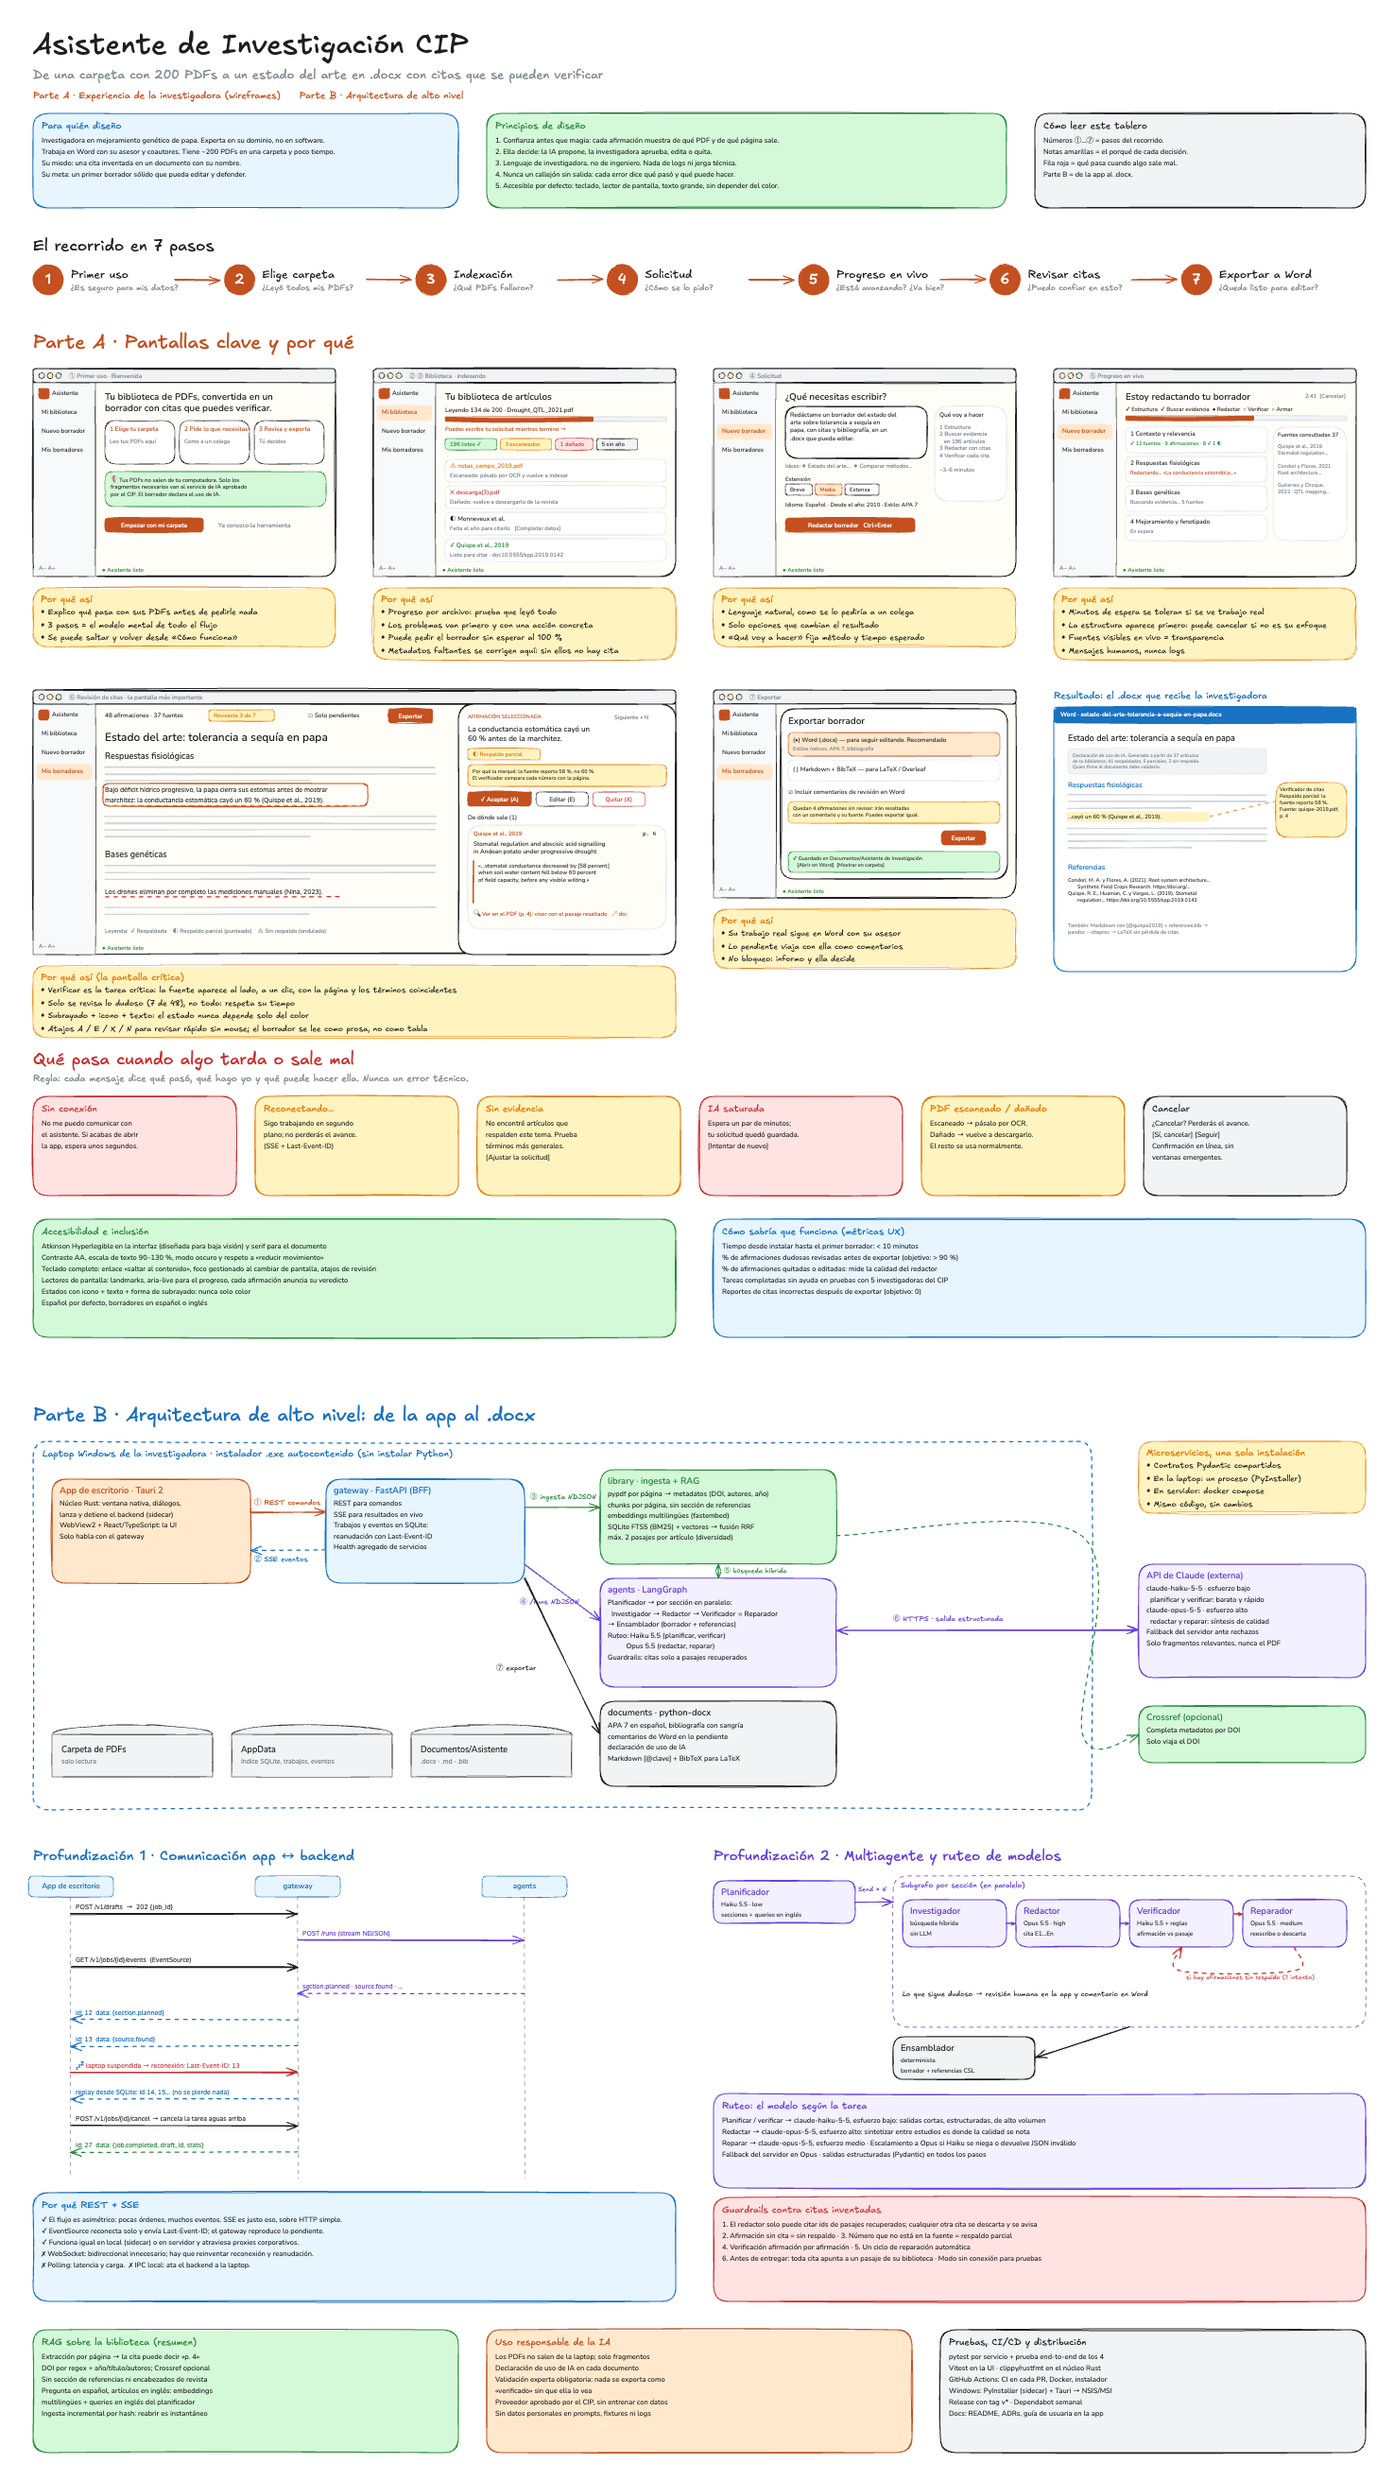
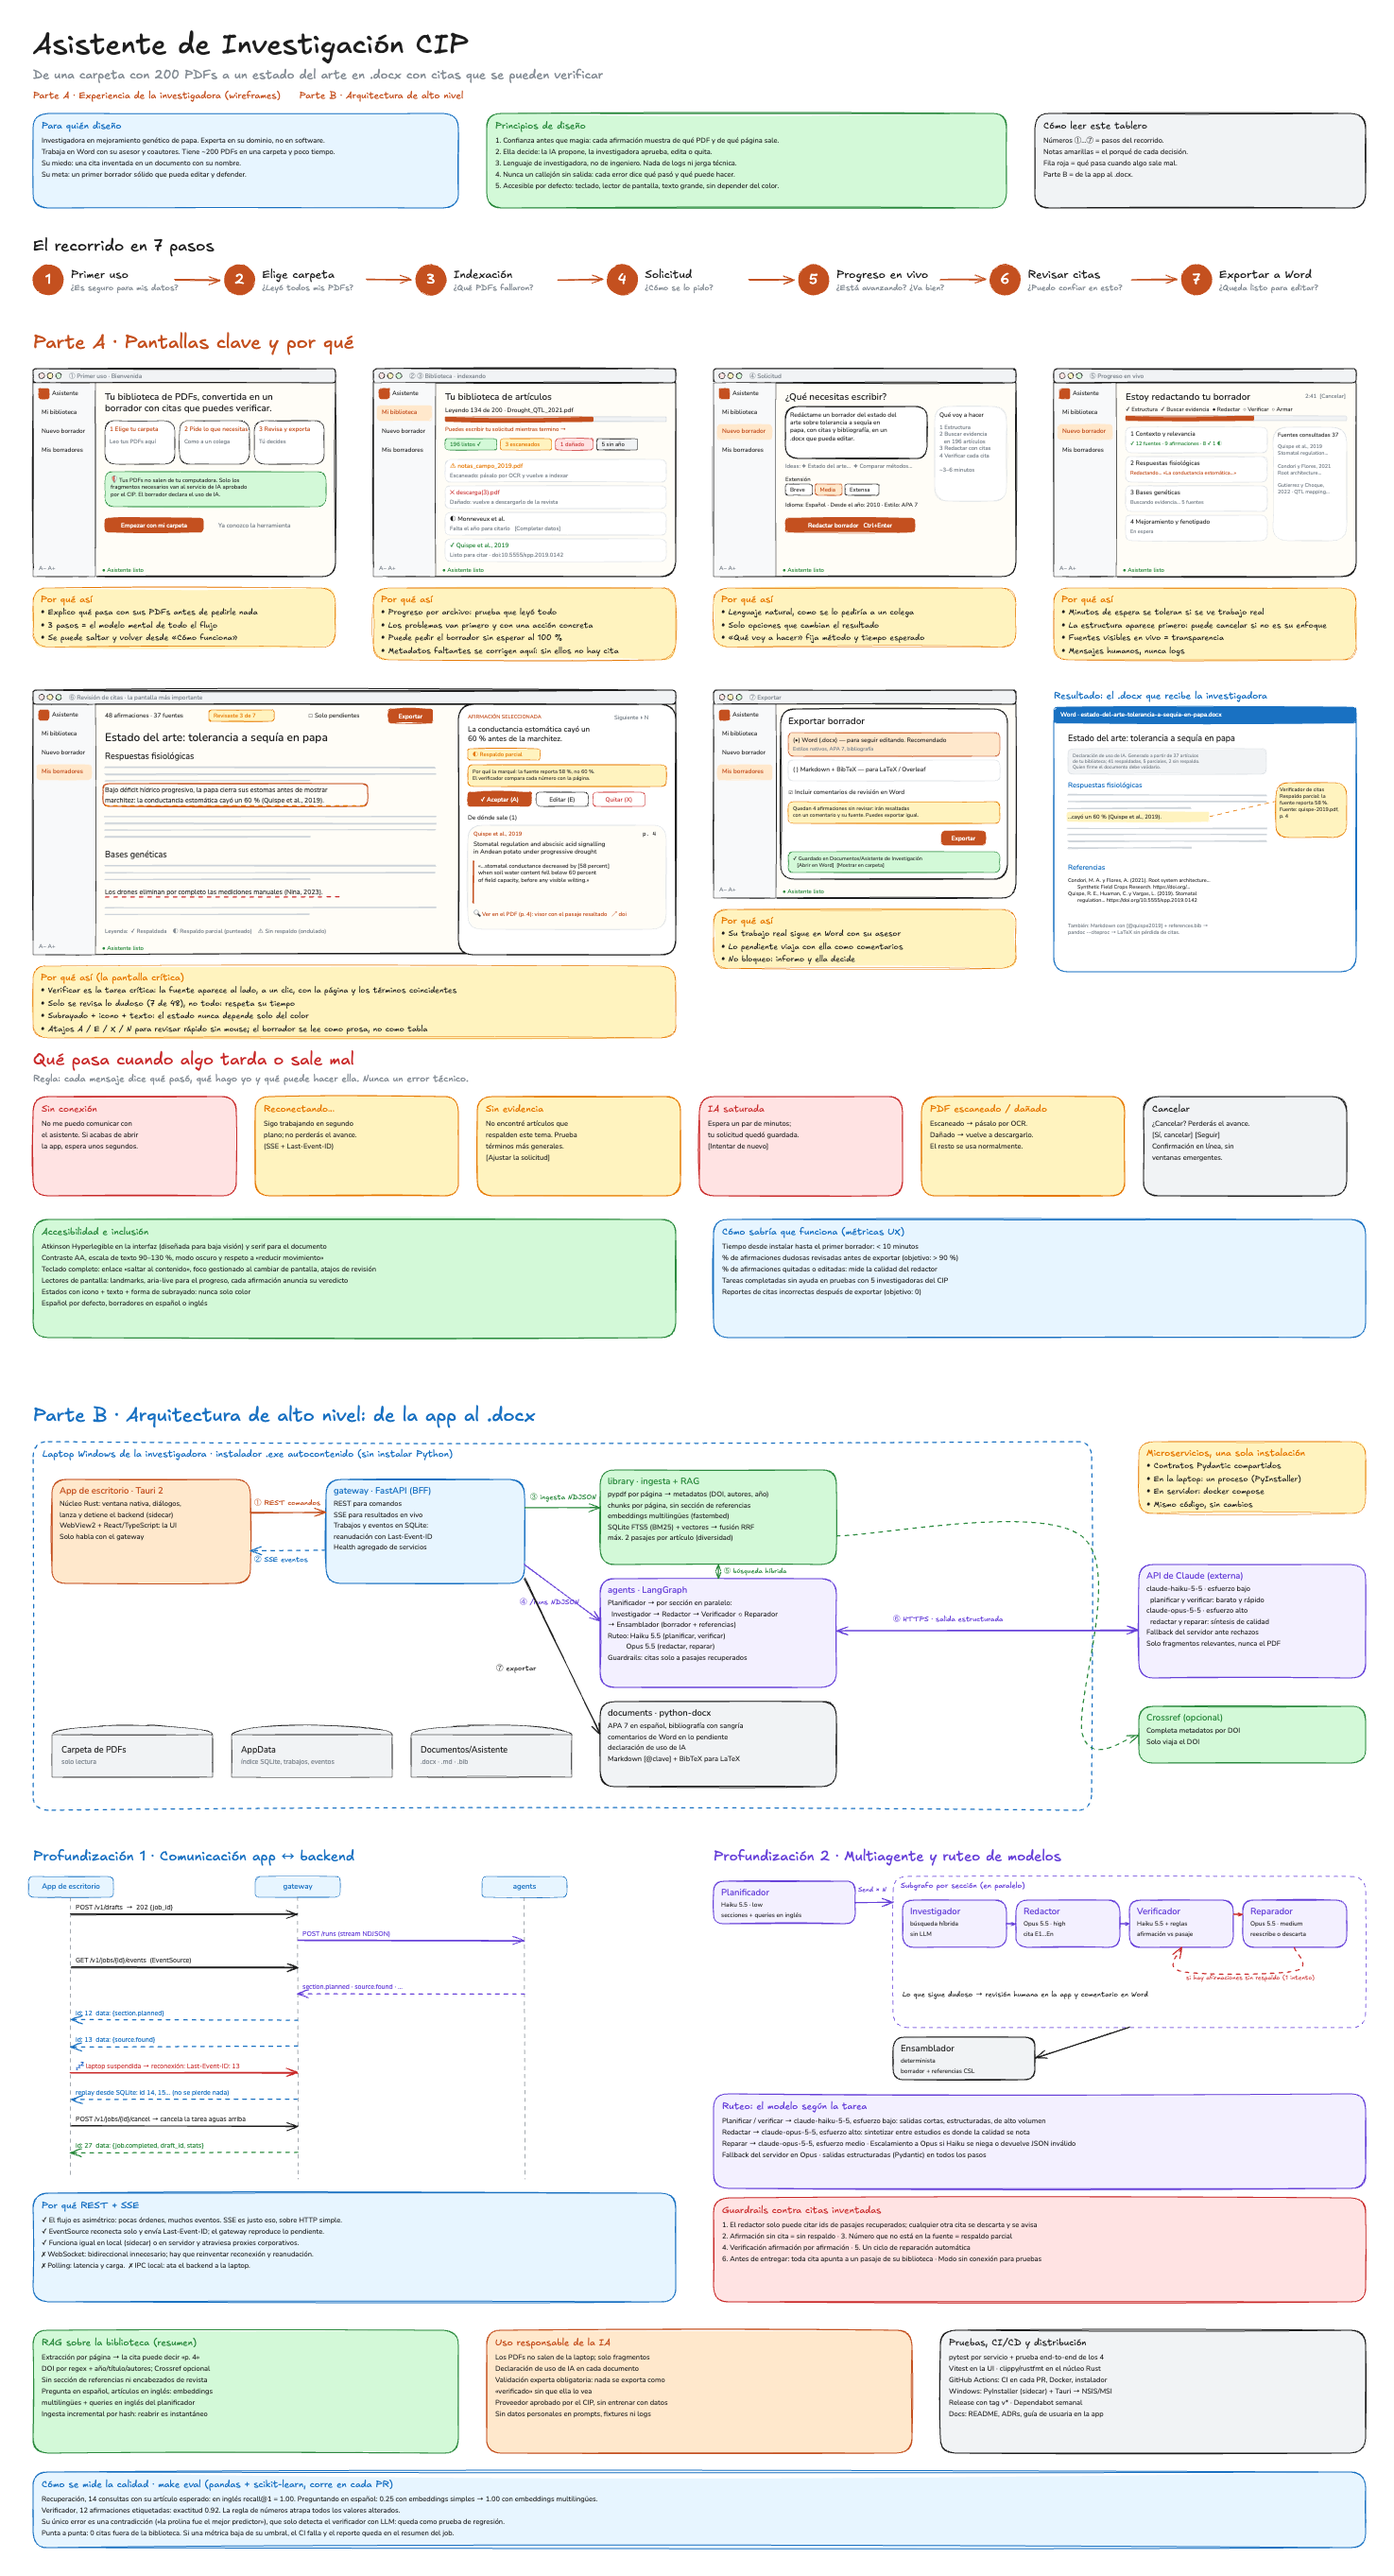
docs: bring evaluation results and the PDF viewer to the board and script
- board: quality card with the measured retrieval and verifier results,
  review wireframe now shows the in-app PDF viewer
- video script mentions the viewer, undo and the evaluation evidence
- README CI badge
- tests for the Crossref enrichment client, which had no coverage

diff --git a/services/library/tests/test_crossref.py b/services/library/tests/test_crossref.py
@@ -1,0 +1,41 @@
+import httpx
+import pytest
+from cip_library import metadata
+from cip_library.metadata import CrossrefClient
+
+WORK = {
+    "message": {
+        "title": ["Root system architecture and drought"],
+        "author": [{"family": "Condori", "given": "Miguel Angel"}, {"name": "CIP Consortium"}],
+        "issued": {"date-parts": [[2021, 5]]},
+        "container-title": ["Field Crops Research"],
+    }
+}
+
+
+def fake_get(status: int, payload: dict | None = None):
+    def get(url: str, headers: dict, timeout: float) -> httpx.Response:
+        assert url.endswith("/10.5555/sfcr.2021.0077")
+        assert "mailto" not in headers["User-Agent"]
+        return httpx.Response(status, json=payload or {}, request=httpx.Request("GET", url))
+
+    return get
+
+
+def test_crossref_metadata_is_mapped_to_citation_fields(monkeypatch: pytest.MonkeyPatch):
+    monkeypatch.setattr(metadata.httpx, "get", fake_get(200, WORK))
+
+    result = CrossrefClient().lookup("10.5555/sfcr.2021.0077")
+
+    assert result.title == "Root system architecture and drought"
+    assert [(author.family, author.given) for author in result.authors] == [
+        ("Condori", "Miguel Angel"),
+        ("CIP Consortium", ""),
+    ]
+    assert (result.year, result.journal) == (2021, "Field Crops Research")
+
+
+def test_crossref_failures_fall_back_to_local_metadata(monkeypatch: pytest.MonkeyPatch):
+    monkeypatch.setattr(metadata.httpx, "get", fake_get(404))
+
+    assert CrossrefClient().lookup("10.5555/sfcr.2021.0077") is None

diff --git a/board/build_board.py b/board/build_board.py
@@ -828,6 +828,23 @@ def other_topics(b: Board, k: Kit, top: float) -> None:
     )
 
 
+def quality(b: Board, k: Kit, top: float) -> None:
+    k.card(
+        0,
+        top,
+        2820,
+        160,
+        "Cómo se mide la calidad · make eval (pandas + scikit-learn, corre en cada PR)",
+        [
+            "Recuperación, 14 consultas con su artículo esperado: en inglés recall@1 = 1.00. Preguntando en español: 0.25 con embeddings simples → 1.00 con embeddings multilingües.",
+            "Verificador, 12 afirmaciones etiquetadas: exactitud 0.92. La regla de números atrapa todos los valores alterados.",
+            "Su único error es una contradicción («la prolina fue el mejor predictor»), que solo detecta el verificador con LLM: queda como prueba de regresión.",
+            "Punta a punta: 0 citas fuera de la biblioteca. Si una métrica baja de su umbral, el CI falla y el reporte queda en el resumen del job.",
+        ],
+        TONE_BLUE,
+    )
+
+
 def build(target: Path) -> None:
     board = Board()
     kit = Kit(board)
@@ -839,6 +856,7 @@ def build(target: Path) -> None:
     after_architecture = architecture(board, kit, after_accessibility + 60)
     after_dives = deep_dives(board, kit, after_architecture)
     other_topics(board, kit, after_dives)
+    quality(board, kit, after_dives + 300)
     board.save(target)
 
 

diff --git a/docs/video-script.md b/docs/video-script.md
@@ -11,12 +11,12 @@ Graba la pantalla con la cámara activada. Ten abierto el tablero en Excalidraw 
 | **0:40 – 1:05** | ① Bienvenida → ② ③ Biblioteca | “Antes de pedirle nada le digo qué pasa con sus PDFs. Luego elige su carpeta y ve el avance archivo por archivo. Los problemas van primero y en su idioma: *escaneado → pásalo por OCR*, *falta el año → complétalo aquí*. Puede empezar a escribir sin esperar al 100 %.” |
 | **1:05 – 1:25** | ④ Solicitud | “Lo pide como a un colega. Solo hay opciones que cambian el resultado (extensión, idioma, desde qué año) y un recuadro *Qué voy a hacer* que fija método y tiempo esperado.” |
 | **1:25 – 1:55** | ⑤ Progreso | “Una espera de minutos se tolera si se ve trabajo real: etapas en lenguaje humano, la estructura del documento aparece primero —si no es su enfoque, cancela— y las fuentes consultadas en vivo. Si se suspende la laptop, al volver no pierde nada.” |
-| **1:55 – 2:35** | ⑥ Revisión (la pantalla más importante) | “Aquí está el corazón. El borrador se lee como prosa. Solo lo dudoso va subrayado —punteado si el respaldo es parcial, ondulado si no lo hay— con icono y texto, nunca solo color. Al hacer clic, a la derecha ve el pasaje exacto, la página y por qué lo marqué: *la fuente dice 58 %, no 60 %*. Acepta, edita o quita, también con el teclado. Revisa 7 afirmaciones, no 48.” |
+| **1:55 – 2:35** | ⑥ Revisión (la pantalla más importante) | “Aquí está el corazón. El borrador se lee como prosa. Solo lo dudoso va subrayado —punteado si el respaldo es parcial, ondulado si no lo hay— con icono y texto, nunca solo color. Al hacer clic, a la derecha ve el pasaje exacto, la página y por qué lo marqué: *la fuente dice 58 %, no 60 %*; con *Ver en el PDF* abre la página con el pasaje resaltado, sin salir de la app. Acepta, edita o quita, también con el teclado, y puede deshacer. Revisa 7 afirmaciones, no 48.” |
 | **2:35 – 2:55** | ⑦ Exportar + Word resultante | “Su trabajo real sigue en Word con su asesor. Exporta un .docx con estilos nativos, APA 7, bibliografía y declaración de uso de IA. Lo que no revisó viaja como comentario de Word con la fuente. No la bloqueo: le informo y ella decide.” |
 | **2:55 – 3:10** | Fila roja + accesibilidad | “Cada error dice qué pasó y qué puede hacer: sin conexión, sin evidencia, IA saturada, PDFs dañados. Y es accesible por defecto: tipografía Atkinson Hyperlegible, teclado completo, lector de pantalla, texto escalable.” |
 | **3:10 – 3:40** | Parte B · diagrama | “Arquitectura: una app de escritorio en **Tauri** (núcleo en Rust y la interfaz en React) habla con un **gateway**. Detrás hay tres microservicios en Python 3.12: **library** hace la ingesta y el RAG conservando autor, año, DOI y página; **agents** orquesta con **LangGraph**; **documents** genera el .docx. En la laptop corren en un solo proceso empaquetado con PyInstaller, así que el instalador de Windows no pide instalar Python. En servidor, los mismos servicios corren con Docker.” |
 | **3:40 – 4:05** | Profundización 1 · comunicación | “Elegí **REST para las órdenes y SSE para los resultados**. El flujo es asimétrico: pocas órdenes y muchos eventos. EventSource reconecta solo y manda `Last-Event-ID`; el gateway guarda los eventos y reenvía lo que faltó. WebSocket me obligaba a reinventar eso, y el polling agrega latencia.” |
-| **4:05 – 4:30** | Profundización 2 · multiagente | “Un planificador arma secciones y búsquedas en inglés; por cada sección, en paralelo: investigador, redactor, verificador y un reparador si algo no tiene respaldo. **Ruteo**: Haiku, barato y rápido, para planificar y verificar; Opus para redactar, que es donde se nota la calidad. **Guardrails**: el redactor solo puede citar pasajes recuperados, los números se comparan con la fuente y lo dudoso pasa a revisión humana.” |
+| **4:05 – 4:30** | Profundización 2 · multiagente | “Un planificador arma secciones y búsquedas en inglés; por cada sección, en paralelo: investigador, redactor, verificador y un reparador si algo no tiene respaldo. **Ruteo**: Haiku, barato y rápido, para planificar y verificar; Opus para redactar, que es donde se nota la calidad. **Guardrails**: el redactor solo puede citar pasajes recuperados, los números se comparan con la fuente y lo dudoso pasa a revisión humana. Y lo medimos: una evaluación en cada PR mostró que preguntar en español fallaba con embeddings simples (0.25) y funciona con multilingües (1.00).” |
 | **4:30 – 4:55** | Cámara | **Uso de IA** (ver abajo, en tus palabras). |
 | **4:55 – 5:00** | Cámara | “Todo el diseño parte de lo mismo: que ella pueda confiar en cada cita. Gracias.” |
 

diff --git a/README.md b/README.md
@@ -1,5 +1,7 @@
 # Asistente de Investigación CIP
 
+[![CI](https://github.com/nicolasllerenas/cip-challenge/actions/workflows/ci.yml/badge.svg)](https://github.com/nicolasllerenas/cip-challenge/actions/workflows/ci.yml)
+
 Propuesta para el reto técnico del CIP (*Practicante de IA y Desarrollo Full-Stack*). Una investigadora en mejoramiento genético de papa elige su carpeta con ~200 PDFs y pide:
 
 > *“Redáctame un borrador del estado del arte sobre tolerancia a sequía en papa, con citas y bibliografía, en un .docx que pueda editar.”*
